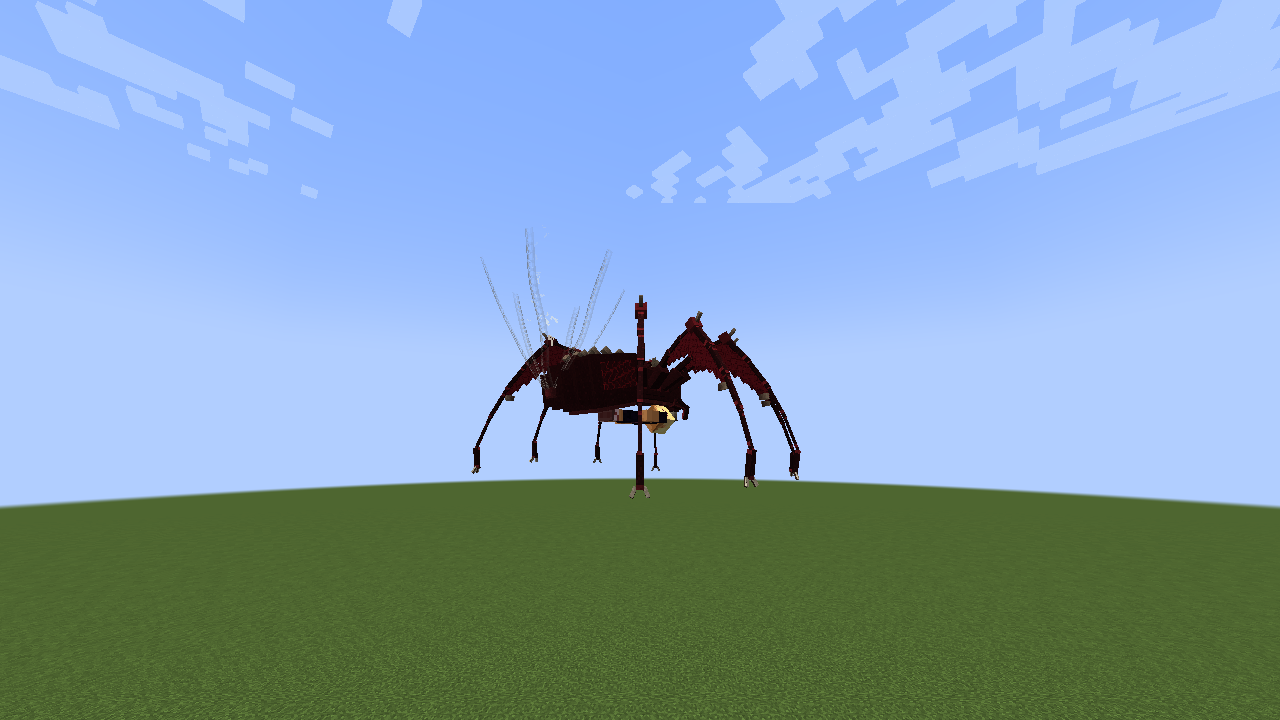
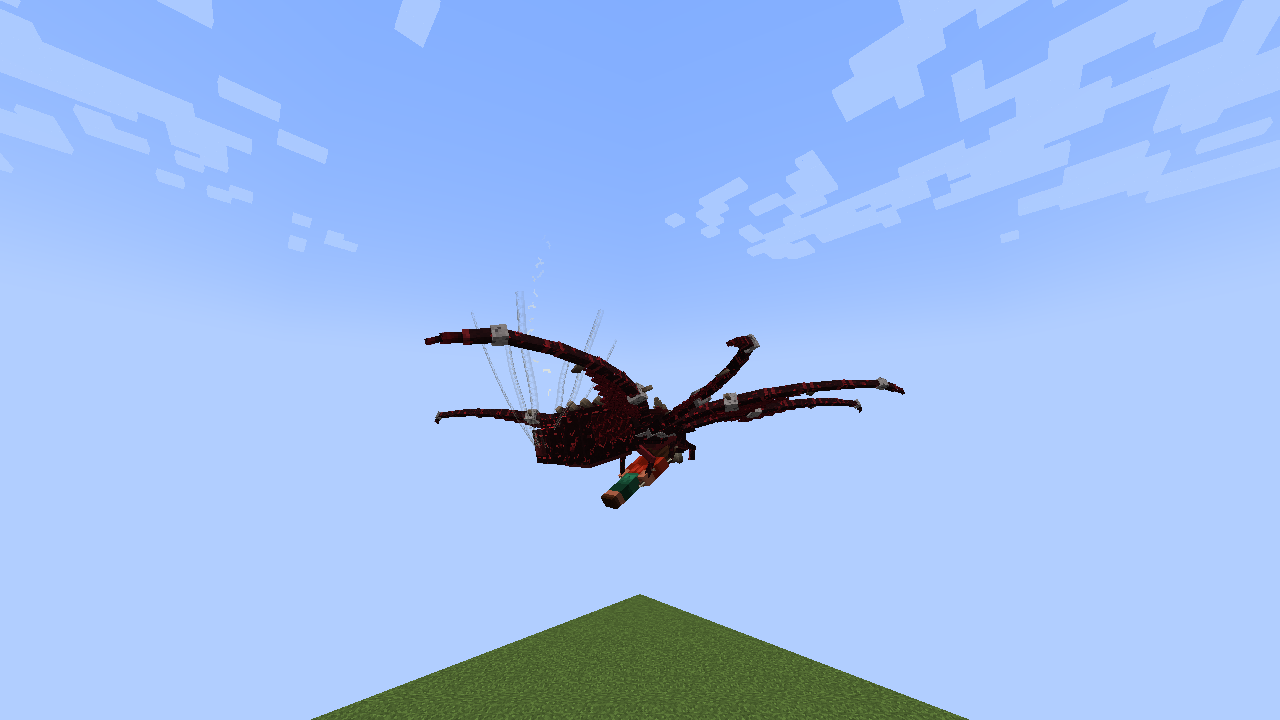
Membrane sail with hover, wild parachute, smoother surface changes
- Sail pose: legs thrown wide and rolled so the membranes lie flat; glide starts with a short
  near-hover, then a slow drifting descent
- Wild Gorewidows falling more than 4 blocks deploy the sail and land unhurt
- Surface changes: softer body turn, one-step position jumps blended out in the rig, no flip-back
  for 16 ticks after a change (fixes inside-corner flicker), AI climbs walls without a hop
- Motion showcase: film strips of floor-wall-ceiling, leap and sail, web swing

Claude-Session: https://claude.ai/code/session_016ZKLpemyHd6iPGbbrEQmMZ

diff --git a/src/main/java/com/vladosiwe/gorewidow/entity/GorewidowEntity.java b/src/main/java/com/vladosiwe/gorewidow/entity/GorewidowEntity.java
@@ -243,6 +243,13 @@ public class GorewidowEntity extends TamableAnimal implements GeoEntity, PlayerR
     private boolean usedAirJump;
     private boolean riderGliding;
     private int glideTicks;
+    private Direction previousSurface = Direction.DOWN;
+    /** Ticks after a surface change during which it will not flip straight back. */
+    private int surfaceSettle;
+    /** Wild/unridden parachute after a long fall. */
+    private boolean autoSail;
+    /** Ticks of near-hover when a glide starts. */
+    public static final int HOVER_TICKS = 12;
     private int riderDrainTimer;
     private int slingCooldown;
     private int clientSlingStart = -100;
@@ -1041,6 +1048,8 @@ public class GorewidowEntity extends TamableAnimal implements GeoEntity, PlayerR
         if (newSurface == this.surface) {
             return;
         }
+        this.previousSurface = this.surface;
+        this.surfaceSettle = 16;
         this.surface = newSurface;
         boolean attached = newSurface != Direction.DOWN;
         if (attached) {
@@ -1145,15 +1154,33 @@ public class GorewidowEntity extends TamableAnimal implements GeoEntity, PlayerR
         if (this.onGround()) {
             this.usedAirJump = false;
             this.glideTicks = 0;
+            if (this.autoSail) {
+                this.autoSail = false;
+                this.entityData.set(DATA_GLIDING, false);
+            }
         } else if (this.riderGliding && this.getControllingPassenger() instanceof Player rider && this.getStamina() > 1.0F) {
-            // silk parachute: cap the fall and drift where the rider looks
+            // membrane sail: legs spread wide, skin stretched flat. For a moment at the top it hangs
+            // almost still in the air, then sinks slowly, drifting where the rider looks
             Vec3 v = this.getDeltaMovement();
             Vec3 look = rider.getLookAngle();
-            if (v.y < -0.11) {
-                this.setDeltaMovement(v.x * 0.96 + look.x * 0.025, -0.11, v.z * 0.96 + look.z * 0.025);
+            double cap = this.glideTicks < HOVER_TICKS ? -0.025 : -0.11;
+            if (v.y < cap) {
+                this.setDeltaMovement(v.x * 0.96 + look.x * 0.025, cap, v.z * 0.96 + look.z * 0.025);
             }
             this.resetFallDistance();
             this.glideTicks++;
+        } else if (!this.level().isClientSide && this.getControllingPassenger() == null && !this.getWebMode().isRope()
+                && !this.isInWater() && (this.autoSail || this.fallDistance > 4.0F && this.getDeltaMovement().y < -0.35)) {
+            // a long fall: it throws its legs wide and parachutes down on its membranes
+            Vec3 v = this.getDeltaMovement();
+            if (v.y < -0.16) {
+                this.setDeltaMovement(v.x * 0.97, -0.16, v.z * 0.97);
+            }
+            this.resetFallDistance();
+            if (!this.autoSail) {
+                this.autoSail = true;
+                this.entityData.set(DATA_GLIDING, true);
+            }
         }
         if (!this.horizontalCollision || this.isInWater() || this.isPassenger()) {
             this.stuckTicks = 0;
@@ -1171,7 +1198,7 @@ public class GorewidowEntity extends TamableAnimal implements GeoEntity, PlayerR
             climb = input.z > 0.1;
         } else {
             wish = new Vec3(this.aiMoveDir.x, 0, this.aiMoveDir.z);
-            climb = this.aiMoveDir.y > 0.15 || this.stuckTicks > 6;
+            climb = this.aiMoveDir.y > 0.15 || this.stuckTicks > 2;
         }
         if (climb && wish.lengthSqr() > 1.0E-4) {
             Direction wall = null;
@@ -1192,6 +1219,9 @@ public class GorewidowEntity extends TamableAnimal implements GeoEntity, PlayerR
     }
 
     private void travelSurface(Vec3 input) {
+        if (this.surfaceSettle > 0) {
+            this.surfaceSettle--;
+        }
         Vec3 n = this.getSurfaceNormal();
         Vec3 desired = this.desiredDirection(input, n);
         Vec3 t = desired.subtract(n.scale(desired.dot(n)));
@@ -1221,6 +1251,10 @@ public class GorewidowEntity extends TamableAnimal implements GeoEntity, PlayerR
                 }
                 Vec3 dv = Vec3.atLowerCornerOf(d.getNormal());
                 double dot = tn.dot(dv);
+                // just came off that surface: only go back if really heading into it (no corner flicker)
+                if (d == this.previousSurface && this.surfaceSettle > 0) {
+                    continue;
+                }
                 if (dot > bestDot && moved.dot(dv) < targetVel.dot(dv) * 0.4 && this.hasContact(d)) {
                     bestDot = dot;
                     blocked = d;

diff --git a/src/main/java/com/vladosiwe/gorewidow/client/GorewidowRig.java b/src/main/java/com/vladosiwe/gorewidow/client/GorewidowRig.java
@@ -116,7 +116,7 @@ public final class GorewidowRig {
             this.orientation.set(target);
             this.initialised = true;
         } else if (!widow.isDeadOrDying()) {
-            float rate = roped ? 7.0F : 11.0F;
+            float rate = roped ? 7.0F : 8.0F;
             this.orientation.slerp(target, 1.0F - (float) Math.exp(-rate * dt));
         }
         this.orientation.normalize();
@@ -127,7 +127,19 @@ public final class GorewidowRig {
         this.originOffset += (targetOffset - this.originOffset) * (1.0F - (float) Math.exp(-8.0F * dt));
 
         Vec3 lerped = widow.getPosition(partialTick);
-        Vec3 offset = new Vec3(0, widow.getBbHeight() * 0.5, 0).subtract(new Vec3(this.up).scale(this.originOffset));
+        // a surface change can move the entity in one step (wrapping round an edge): absorb that jump
+        // into a correction that fades out, so the body glides over instead of popping
+        if (this.lastLerped != null && !widow.isDeadOrDying()) {
+            Vec3 jump = lerped.subtract(this.lastLerped);
+            double expected = widow.getDeltaMovement().length() * Math.max(1.0, dt * 20.0) + 0.12;
+            if (jump.length() > expected + 0.25 && jump.length() < 3.0) {
+                this.positionCorrection = this.positionCorrection.subtract(jump.normalize().scale(jump.length() - expected));
+            }
+        }
+        this.lastLerped = lerped;
+        this.positionCorrection = this.positionCorrection.scale(Math.exp(-9.0 * dt));
+        Vec3 offset = new Vec3(0, widow.getBbHeight() * 0.5, 0).subtract(new Vec3(this.up).scale(this.originOffset))
+                .add(this.positionCorrection);
         this.origin = lerped.add(offset);
         return offset;
     }
@@ -155,6 +167,12 @@ public final class GorewidowRig {
     }
 
     private float claspHold;
+    @Nullable
+    private Vec3 lastLerped;
+    private Vec3 positionCorrection = Vec3.ZERO;
+    private float sail;
+    /** Leg roll (deg) that turns the membranes flat while sailing. */
+    private static final float SAIL_ROLL = 70.0F;
 
     public Vec3 modelToWorld(float x, float y, float z) {
         float k = PX * this.scale;
@@ -367,6 +385,8 @@ public final class GorewidowRig {
         this.spread += (spreadTarget - this.spread) * blend;
         this.raise += (raiseTarget - this.raise) * blend * 1.5F;
         this.grip += (gripTarget - this.grip) * blend;
+        float sailTarget = !dead && !roped && widow.isGliding() && !widow.onGround() ? 1.0F : 0.0F;
+        this.sail += (sailTarget - this.sail) * blend * 0.8F;
 
         // ---- feet for this frame
         for (int i = 0; i < LEGS; i++) {
@@ -493,6 +513,13 @@ public final class GorewidowRig {
                 angles = mix(angles, gripping, this.grip * 0.6F);
             }
 
+            if (this.sail > 0.001F) {
+                // sail: legs thrown wide and nearly flat, tips curling down, skin rippling in the air
+                float ripple = Mth.sin(time * 14 + i * 0.9F) * 0.06F;
+                float[] sailPose = {(idx < 2 ? -1 : 1) * (float) Math.toRadians(8), (float) Math.toRadians(14) + ripple,
+                        (float) Math.toRadians(-26) - ripple, (float) Math.toRadians(-38)};
+                angles = mix(angles, sailPose, this.sail);
+            }
             // grabbing: the front two pairs close around the victim's body from their own side
             if (grabBox != null && idx < 2 && this.grip > 0.01F) {
                 Vec3 centre = grabBox.getCenter();
@@ -513,7 +540,8 @@ public final class GorewidowRig {
             coxa.setRotX(0);
             coxa.setRotZ(0);
             femur.setRotZ(c * angles[1]);
-            femur.setRotX(0);
+            // rolling the leg about its own length lays the membrane under it flat like a canopy
+            femur.setRotX(this.sail * (float) Math.toRadians(SAIL_ROLL) * (idx < 2 ? 1 : -1) * c);
             femur.setRotY(0);
             tibia.setRotZ(c * angles[2]);
             tibia.setRotX(0);

diff --git a/src/main/java/com/vladosiwe/gorewidow/client/dev/DevShowcase.java b/src/main/java/com/vladosiwe/gorewidow/client/dev/DevShowcase.java
@@ -106,6 +106,10 @@ public final class DevShowcase {
             SCENES.clear();
             defineRideScenes();
         }
+        if (Boolean.getBoolean("gorewidow.showcase.motion")) {
+            SCENES.clear();
+            defineMotionScenes();
+        }
         if (Boolean.getBoolean("gorewidow.showcase.mind")) {
             SCENES.clear();
             defineMindScenes();
@@ -309,6 +313,40 @@ public final class DevShowcase {
             c.first().setRiderGliding(true);
             c.first().setDeltaMovement(c.first().getDeltaMovement().multiply(1, 0, 1).add(0, -0.1, 0));
         }, new Vec3(-6, 7, -6), new Vec3(0, 9, 0), false));
+    }
+
+    /** Film strips (a frame every 3 ticks) to judge how smooth movement looks. */
+    private static void defineMotionScenes() {
+        SCENES.add(new Scene("corner_film", 120, c -> {
+            c.fill(3, 0, -4, 3, 6, 4, Blocks.STONE_BRICKS.defaultBlockState());
+            c.fill(-7, 7, -4, 3, 7, 4, Blocks.STONE_BRICKS.defaultBlockState());
+            c.widow(0.3, 0, 0, 270);
+        }, c -> {
+            Vec3 goal = ticks < 70 ? c.at(2.1, 6.0, 0) : c.at(-5, 6.0, 0);
+            c.first().getMoveControl().setWantedPosition(goal.x, goal.y, goal.z, 0.6);
+            if (ticks % 3 == 0) {
+                LOGGER.info("corner t={} surface={} pos={} hc={}", ticks, c.first().getSurface(), c.first().position(), c.first().horizontalCollision);
+            }
+        }, new Vec3(-3, 3.5, -9), new Vec3(0, 3.5, 0), false));
+        SCENES.add(new Scene("glide_film", 45, c -> {
+            GorewidowEntity w = c.widow(0, 12, 0, 30);
+            w.tame(c.player);
+        }, c -> {
+            GorewidowEntity w = c.first();
+            if (ticks == 6) {
+                w.setDeltaMovement(0.25, 0.55, 0.1);   // a leap
+            }
+            boolean glide = ticks > 14;
+            w.setRiderGliding(glide);
+            if (glide && w.getDeltaMovement().y < -0.11) {
+                w.setDeltaMovement(w.getDeltaMovement().multiply(0.96, 0, 0.96).add(0, -0.11, 0));
+            }
+        }, new Vec3(-7, 9, -8), new Vec3(1, 10, 0), false));
+        SCENES.add(new Scene("swing_film", 45, c -> {
+            c.fill(-1, 15, -1, 1, 15, 1, Blocks.SPRUCE_LOG.defaultBlockState());
+            GorewidowEntity w = c.widow(0.5, 0, -9, 0);
+            w.shootWeb(c.at(0.5, 15, 0), GorewidowEntity.WebPurpose.TRAVERSE);
+        }, c -> c.first().setAiReel(ticks < 26 ? 1.0F : 0.0F), new Vec3(-14, 7, -2), new Vec3(0, 7.5, -2), false));
     }
 
     private static void defineFamilyScenes() {
@@ -602,6 +640,10 @@ public final class DevShowcase {
             mc.player.setXRot(pitch);
             mc.player.yRotO = yaw;
             mc.player.xRotO = pitch;
+        }
+        if (scene.name().endsWith("_film") && ticks % 3 == 0 && ticks > 0 && ticks < scene.settleTicks()) {
+            Screenshot.grab(mc.gameDirectory, "film_" + scene.name() + "_" + String.format("%03d", ticks) + ".png",
+                    mc.getMainRenderTarget(), msg -> {});
         }
         if (ticks == scene.settleTicks()) {
             net.minecraft.world.entity.Entity cr = rider == null ? null : mc.level.getEntity(rider.getId());

diff --git a/README.md b/README.md
@@ -144,7 +144,7 @@ takes 35% less damage and the mount carries 60 more weight.
 | Key (rebindable) | Action |
 |---|---|
 | W/A/S/D | Move relative to where you look, on any surface. Walk into a wall to climb it |
-| Space | Leap. In the air, tap it again for a **double jump**; **hold** it while falling for a silk **parachute**. On a wall or ceiling, jump off it. On a web line, let go and keep the momentum |
+| Space | Leap. In the air, tap it again for a **double jump**; **hold** it while falling to **sail**: it throws its legs wide and rolls them so the membranes lie flat like a canopy, hangs almost still for a moment, then sinks slowly, drifting where you look. On a wall or ceiling, jump off it. On a web line, let go and keep the momentum |
 | R | Shoot a web line at the crosshair: a block becomes a swing anchor, a creature gets pulled in. Press again to release |
 | C | **Slingshot**: fire two lines in a V ahead and launch yourself between them (25 stamina) |
 | Z / X | Reel the line in / pay it out |
@@ -172,6 +172,8 @@ Passives, after ARK's Bloodstalker:
   you carry one, otherwise your own blood.
 - **Skates on water.** Its long legs keep it standing on the surface.
 - **Climbs anything**, wrapping around edges and onto ceilings.
+- **Sails on its membranes.** A wild one that falls more than a few blocks spreads its legs and
+  parachutes down unhurt.
 
 ## How it is built
 
@@ -181,6 +183,9 @@ Passives, after ARK's Bloodstalker:
   in/out, momentum and grabbing whatever it swings into. Whoever controls the creature runs the
   physics (the server for the AI, the rider's client while ridden), and surface changes sync to
   the server.
+- **Smooth surface changes.** The body turns onto a new surface over a fraction of a second, a
+  one-step position change (wrapping round an outer edge) is blended out over a few frames, and
+  right after a change it does not flip straight back (no flicker in inside corners).
 - **Procedural rig** (`client/GorewidowRig`). Every foot is planted in the world and re-placed in
   an alternating gait by ray-casting the surface ahead. An analytic IK solve per leg (coxa yaw plus
   two-bone with a near-vertical tarsus) reaches the planted foot, and the body pitches, rolls and
@@ -204,7 +209,9 @@ The mod is fully translated into Russian (`ru_ru`); every in-game string has an 
                               # incubation and hatching, imprinting, pulling riders off mounts
 ./gradlew runShowcase         # dev only: needs a world in run/saves/showcase; stages every
                               # state and saves screenshots to run/screenshots
-                              # (-Dgorewidow.showcase.ui / .mind / .ride / .family / .lair = true)
+                              # (-Dgorewidow.showcase.ui / .mind / .ride / .family / .lair = true;
+                              # .motion = true films floor-wall-ceiling, leap+sail and web swing,
+                              # a frame every 3 ticks)
 ```
 
 Screenshots from the real game are in `docs/screenshots/`.
